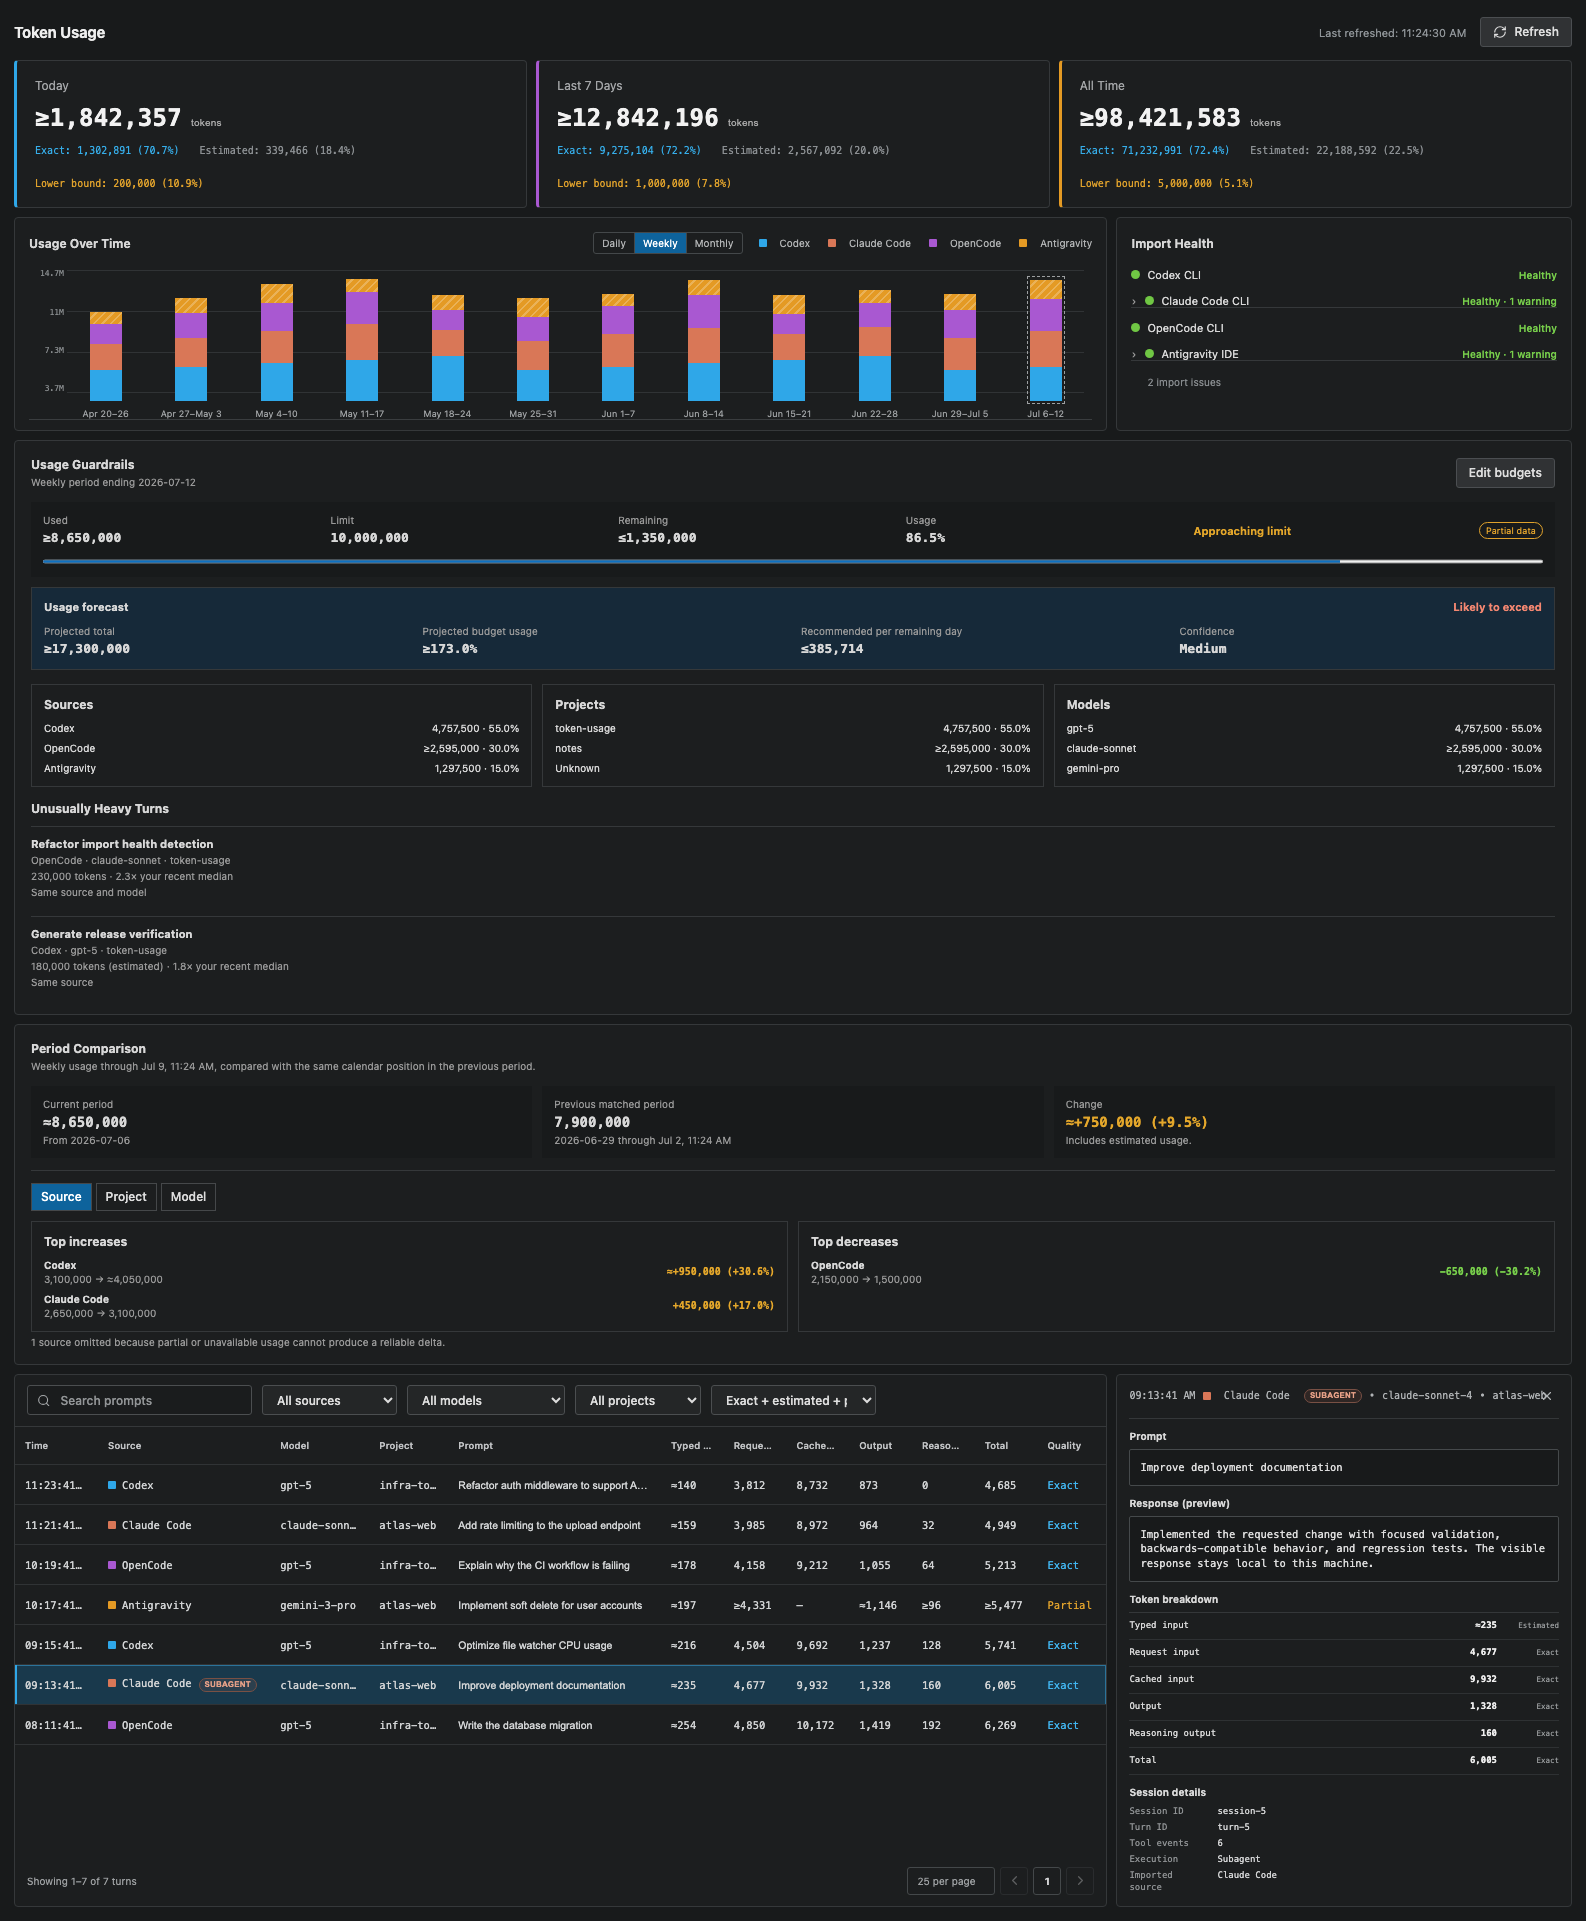
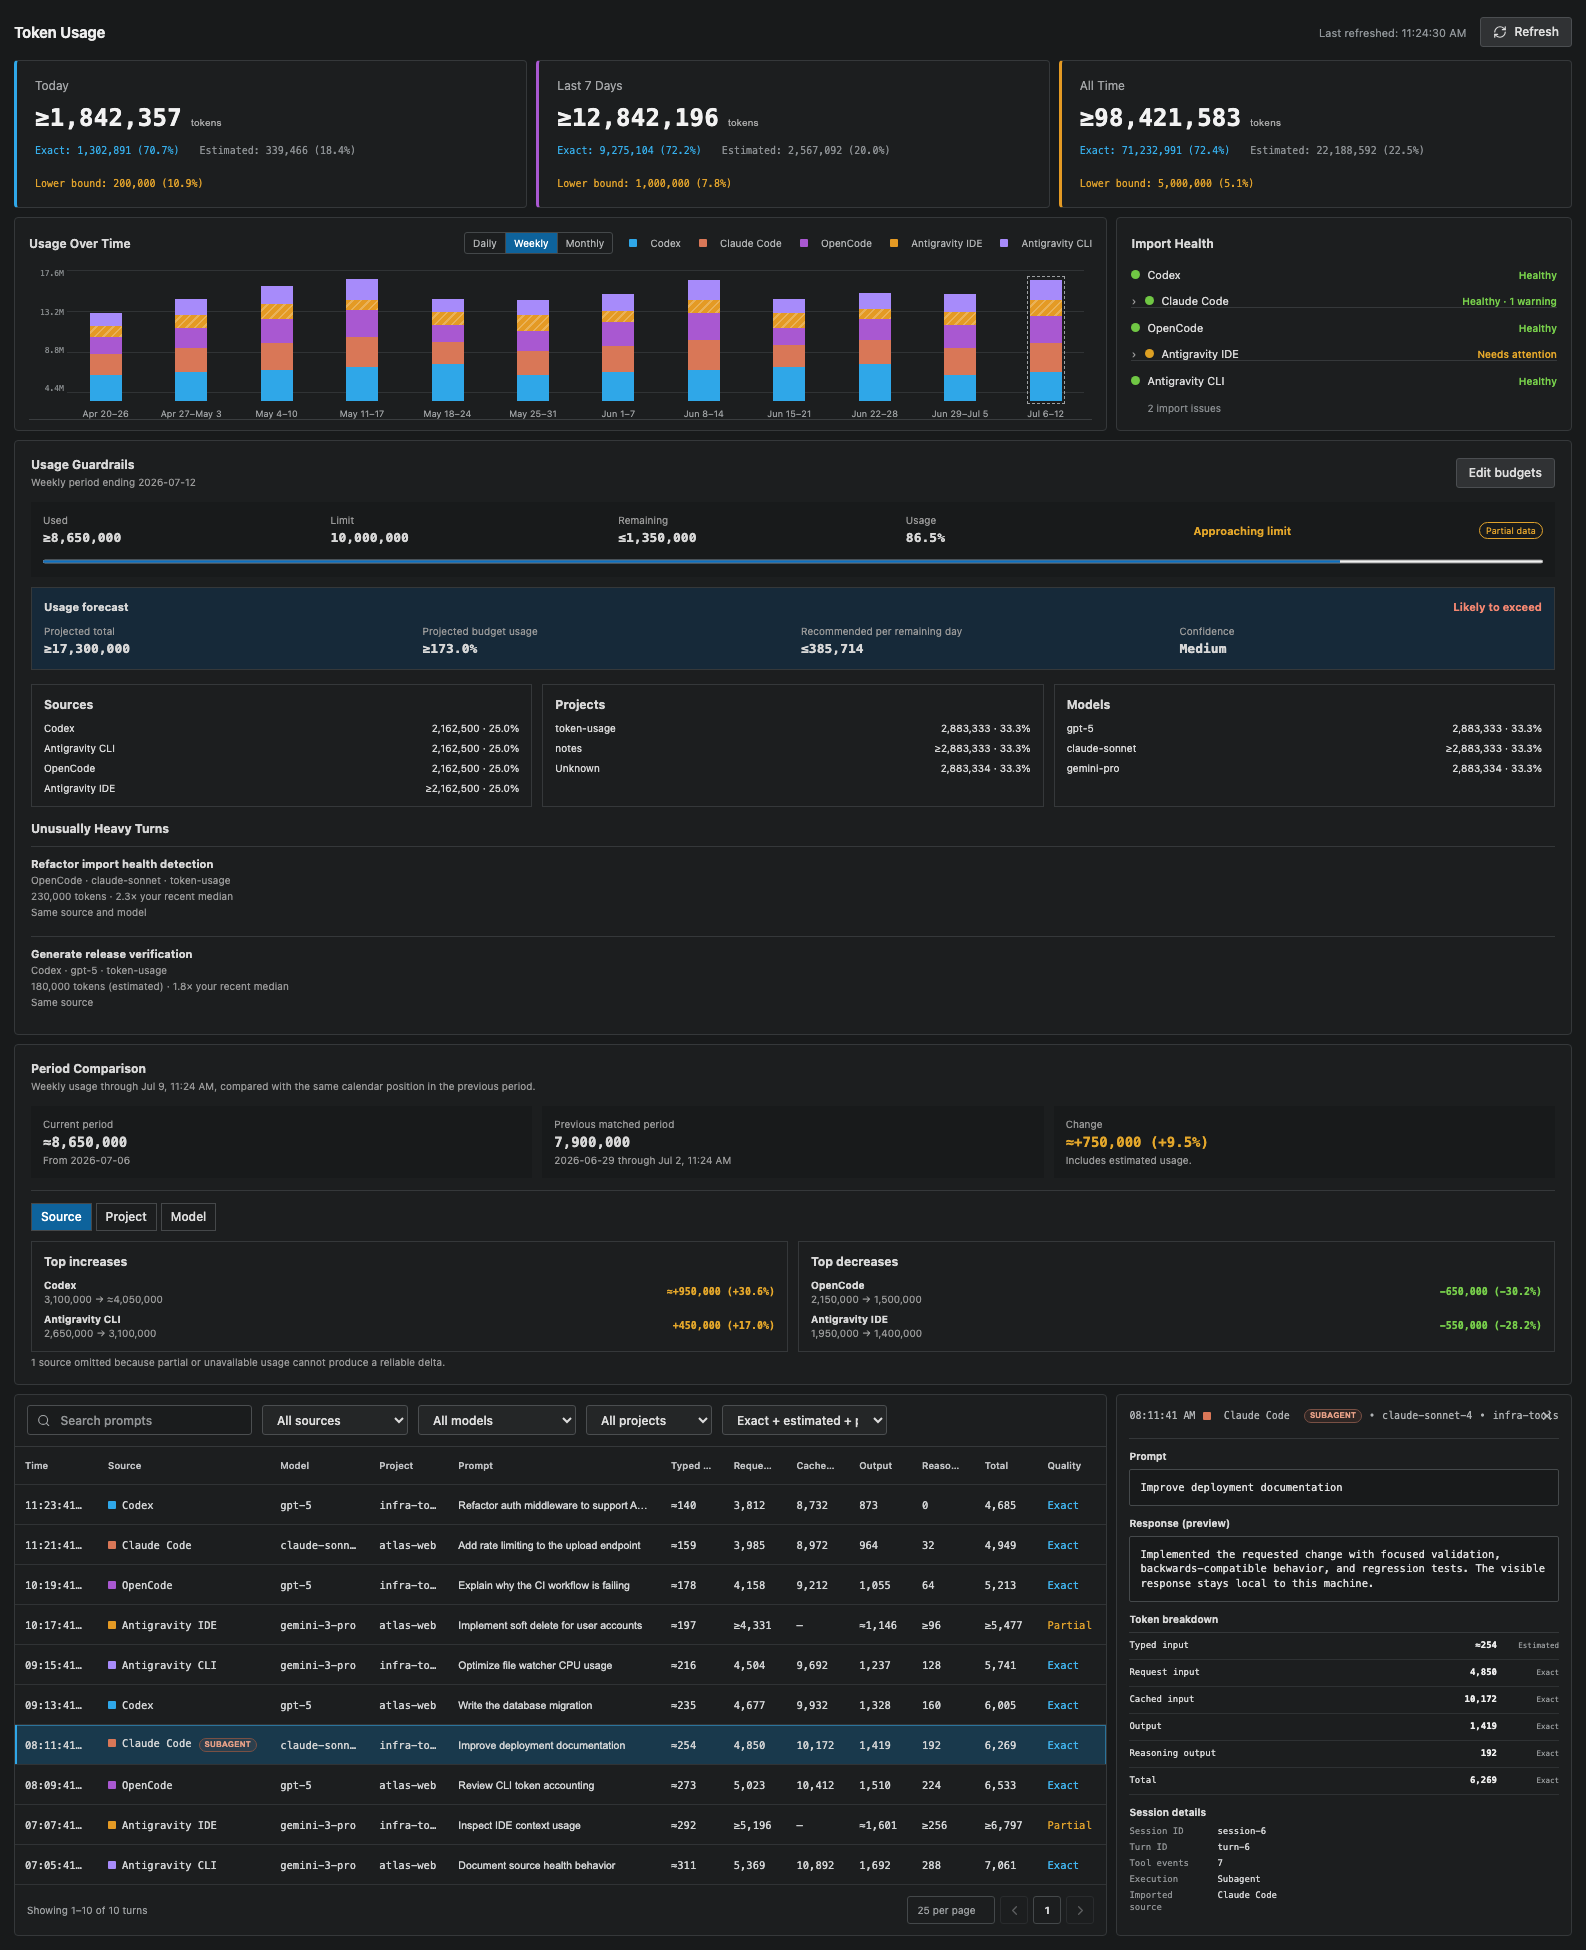
feat: show Antigravity CLI across the dashboard

diff --git a/webview/src/App.test.tsx b/webview/src/App.test.tsx
@@ -75,6 +75,8 @@ function fixtureTurn(
   prompt: string,
   total: number
 ): NormalizedTurn {
+  const antigravityFamily = source === "antigravity" || source === "antigravity-cli";
+  const recordedQuality = source === "antigravity" ? "partial" : "exact";
   return {
     id,
     source,
@@ -82,8 +84,12 @@ function fixtureTurn(
     sourceTurnId: id,
     executionScope: source === "claude" && id.includes("subagent") ? "subagent" : "main",
     timestamp: "2026-07-09T03:00:00.000Z",
-    model: source === "claude" ? "claude-sonnet-4" : source === "antigravity" ? "gemini-3-pro" : "gpt-5",
-    provider: source === "claude" ? "anthropic" : source === "antigravity" ? "google" : "openai",
+    model: source === "claude"
+      ? "claude-sonnet-4"
+      : antigravityFamily
+        ? "gemini-3-pro"
+        : "gpt-5",
+    provider: source === "claude" ? "anthropic" : antigravityFamily ? "google" : "openai",
     project: source === "claude" || source === "opencode" ? "/project/api" : "/project/web",
     prompt,
     response: `Response for ${prompt}`,
@@ -91,9 +97,9 @@ function fixtureTurn(
     fingerprint: id,
     metrics: [
       { kind: "typed_input", value: 12, quality: "estimated", basis: "fixture" },
-      { kind: "request_input", value: total - 20, quality: "exact", basis: "fixture" },
-      { kind: "output", value: 20, quality: "exact", basis: "fixture" },
-      { kind: "total", value: total, quality: "exact", basis: "fixture" }
+      { kind: "request_input", value: total - 20, quality: recordedQuality, basis: "fixture" },
+      { kind: "output", value: 20, quality: recordedQuality, basis: "fixture" },
+      { kind: "total", value: total, quality: recordedQuality, basis: "fixture" }
     ]
   };
 }
@@ -107,16 +113,16 @@ const snapshot: DashboardSnapshot = {
   },
   trends: {
     daily: [
-      { startDate: "2026-07-08", endDate: "2026-07-08", inProgress: false, codex: 200, claude: null, opencode: 100, antigravity: null, "antigravity-cli": null },
-      { startDate: "2026-07-09", endDate: "2026-07-09", inProgress: true, codex: 600, claude: null, opencode: 200, antigravity: 50, "antigravity-cli": null, partialSources: ["antigravity"] }
+      { startDate: "2026-07-08", endDate: "2026-07-08", inProgress: false, codex: 200, claude: null, opencode: 100, antigravity: null, "antigravity-cli": 30 },
+      { startDate: "2026-07-09", endDate: "2026-07-09", inProgress: true, codex: 600, claude: null, opencode: 200, antigravity: 50, "antigravity-cli": 90, partialSources: ["antigravity"] }
     ],
     weekly: [
-      { startDate: "2026-07-06", endDate: "2026-07-12", inProgress: false, codex: 200, claude: null, opencode: 100, antigravity: 50, "antigravity-cli": null, partialSources: ["antigravity"] },
-      { startDate: "2026-07-13", endDate: "2026-07-19", inProgress: true, codex: 600, claude: null, opencode: 200, antigravity: 50, "antigravity-cli": null }
+      { startDate: "2026-07-06", endDate: "2026-07-12", inProgress: false, codex: 200, claude: null, opencode: 100, antigravity: 50, "antigravity-cli": 210, partialSources: ["antigravity"] },
+      { startDate: "2026-07-13", endDate: "2026-07-19", inProgress: true, codex: 600, claude: null, opencode: 200, antigravity: 50, "antigravity-cli": 630 }
     ],
     monthly: [
-      { startDate: "2026-07-01", endDate: "2026-07-31", inProgress: false, codex: 200, claude: null, opencode: 100, antigravity: 50, "antigravity-cli": null, partialSources: ["antigravity"] },
-      { startDate: "2026-08-01", endDate: "2026-08-31", inProgress: true, codex: 600, claude: null, opencode: 200, antigravity: 50, "antigravity-cli": null }
+      { startDate: "2026-07-01", endDate: "2026-07-31", inProgress: false, codex: 200, claude: null, opencode: 100, antigravity: 50, "antigravity-cli": 900, partialSources: ["antigravity"] },
+      { startDate: "2026-08-01", endDate: "2026-08-31", inProgress: true, codex: 600, claude: null, opencode: 200, antigravity: 50, "antigravity-cli": 1_800 }
     ]
   },
   budgets: { daily: 100, weekly: 250, monthly: 2_000 },
@@ -168,7 +174,9 @@ const snapshot: DashboardSnapshot = {
   turns: [
     fixtureTurn("codex-turn", "codex", "Refactor the authentication parser", 600),
     fixtureTurn("claude-subagent-turn", "claude", "Inspect the parser tests", 200),
-    fixtureTurn("open-turn", "opencode", "Write the database migration", 400)
+    fixtureTurn("open-turn", "opencode", "Write the database migration", 400),
+    fixtureTurn("antigravity-turn", "antigravity", "Inspect IDE context usage", 50),
+    fixtureTurn("antigravity-cli-turn", "antigravity-cli", "Review CLI token totals", 90)
   ],
   health: [
     {
@@ -189,6 +197,22 @@ const snapshot: DashboardSnapshot = {
     },
     {
       source: "opencode",
+      complete: true,
+      completedAt: "2026-07-09T04:00:00.000Z",
+      sessionCount: 1,
+      turnCount: 1,
+      issues: []
+    },
+    {
+      source: "antigravity",
+      complete: false,
+      completedAt: "2026-07-09T04:00:00.000Z",
+      sessionCount: 1,
+      turnCount: 1,
+      issues: []
+    },
+    {
+      source: "antigravity-cli",
       complete: true,
       completedAt: "2026-07-09T04:00:00.000Z",
       sessionCount: 1,
@@ -284,6 +308,36 @@ describe("App", () => {
       target: { value: "codex" }
     });
     expect(screen.getByText("No turns match the current filters.")).toBeInTheDocument();
+  });
+
+  it("filters rows to exact Antigravity CLI and partial IDE usage", () => {
+    renderApp();
+
+    fireEvent.change(screen.getByLabelText("Source"), {
+      target: { value: "antigravity-cli" }
+    });
+
+    const table = screen.getByRole("table", { name: "Token usage by turn" });
+    expect(within(table).getByText("Review CLI token totals")).toBeInTheDocument();
+    expect(within(table).getByText("Antigravity CLI")).toBeInTheDocument();
+    expect(within(table).getByText("exact")).toBeInTheDocument();
+    expect(within(table).queryByText("Refactor the authentication parser")).not.toBeInTheDocument();
+
+    fireEvent.change(screen.getByLabelText("Source"), {
+      target: { value: "antigravity" }
+    });
+    expect(within(table).getByText("Inspect IDE context usage")).toBeInTheDocument();
+    expect(within(table).getByText("partial")).toBeInTheDocument();
+  });
+
+  it("keeps Antigravity IDE and CLI import health independent", () => {
+    renderApp();
+
+    const health = within(screen.getByRole("heading", { name: "Import Health" }).closest("section")!);
+    const ideRow = health.getByText("Antigravity IDE").closest<HTMLElement>(".health-row")!;
+    const cliRow = health.getByText("Antigravity CLI").closest<HTMLElement>(".health-row")!;
+    expect(within(ideRow).getByText("Needs attention")).toBeInTheDocument();
+    expect(within(cliRow).getByText("Healthy")).toBeInTheDocument();
   });
 
   it("opens full prompt and visible response details for the selected row", () => {

diff --git a/webview/src/Root.test.tsx b/webview/src/Root.test.tsx
@@ -53,13 +53,13 @@ const snapshot: DashboardSnapshot = {
   },
   trends: {
     daily: [
-      { startDate: "2026-07-22", endDate: "2026-07-22", inProgress: true, codex: 1_000, claude: 0, opencode: 0, antigravity: 0, "antigravity-cli": 0 }
+      { startDate: "2026-07-22", endDate: "2026-07-22", inProgress: true, codex: 1_000, claude: 0, opencode: 0, antigravity: 100, "antigravity-cli": 250, partialSources: ["antigravity"] }
     ],
     weekly: [
-      { startDate: "2026-07-20", endDate: "2026-07-26", inProgress: true, codex: 1_000, claude: 0, opencode: 0, antigravity: 0, "antigravity-cli": 0 }
+      { startDate: "2026-07-20", endDate: "2026-07-26", inProgress: true, codex: 1_000, claude: 0, opencode: 0, antigravity: 700, "antigravity-cli": 1_750, partialSources: ["antigravity"] }
     ],
     monthly: [
-      { startDate: "2026-07-01", endDate: "2026-07-31", inProgress: true, codex: 1_000, claude: 0, opencode: 0, antigravity: 0, "antigravity-cli": 0 }
+      { startDate: "2026-07-01", endDate: "2026-07-31", inProgress: true, codex: 1_000, claude: 0, opencode: 0, antigravity: 3_000, "antigravity-cli": 7_500, partialSources: ["antigravity"] }
     ]
   },
   budgets: { daily: 0, weekly: 0, monthly: 0 },
@@ -136,6 +136,21 @@ afterEach(() => {
 });
 
 describe("Root", () => {
+  it("renders a non-zero Antigravity CLI segment from a delivered snapshot", () => {
+    const vscode = fakeVsCode(null);
+    const { container } = render(<Root vscode={vscode} />);
+
+    deliver({ type: "snapshot", snapshot });
+
+    const trend = within(screen.getByRole("heading", { name: "Usage Over Time" }).closest("section")!);
+    expect(trend.getByText("Antigravity IDE")).toBeInTheDocument();
+    expect(trend.getByText("Antigravity CLI")).toBeInTheDocument();
+    const segment = container.querySelector<HTMLElement>(
+      ".chart-column.in-progress .bar-segment.source-antigravity-cli"
+    )!;
+    expect(Number.parseFloat(segment.style.height)).toBeGreaterThan(0);
+  });
+
   it("restores Monthly, persists Weekly, and does not refresh for a selector change", () => {
     const vscode = fakeVsCode({ usageGranularity: "monthly" });
     render(<Root vscode={vscode} />);

diff --git a/webview/src/UsageGuardrails.test.tsx b/webview/src/UsageGuardrails.test.tsx
@@ -289,6 +289,26 @@ it("keeps contributors visible when the budget is disabled", () => {
   expect(screen.getByText("Codex")).toBeInTheDocument();
 });
 
+it("shows Antigravity CLI as a source contributor", () => {
+  renderGuardrails({
+    insights: {
+      contributors: {
+        ...baseInsights.contributors,
+        sources: [{
+          key: "antigravity-cli",
+          label: "Antigravity CLI",
+          tokens: 800,
+          share: 1,
+          partial: false
+        }]
+      }
+    }
+  });
+
+  const sources = screen.getByRole("heading", { name: "Sources" }).closest("div")!;
+  expect(within(sources).getByText("Antigravity CLI")).toBeInTheDocument();
+});
+
 it("floors remaining tokens at zero after exceeding", () => {
   renderGuardrails({ budget: 100, used: 125 });
   const remaining = screen.getByText("Remaining").parentElement!;

diff --git a/webview/src/styles.css b/webview/src/styles.css
@@ -1167,6 +1167,7 @@ tbody tr.selected {
   }
 
   .legend {
+    flex-wrap: wrap;
     gap: 8px;
   }
 
